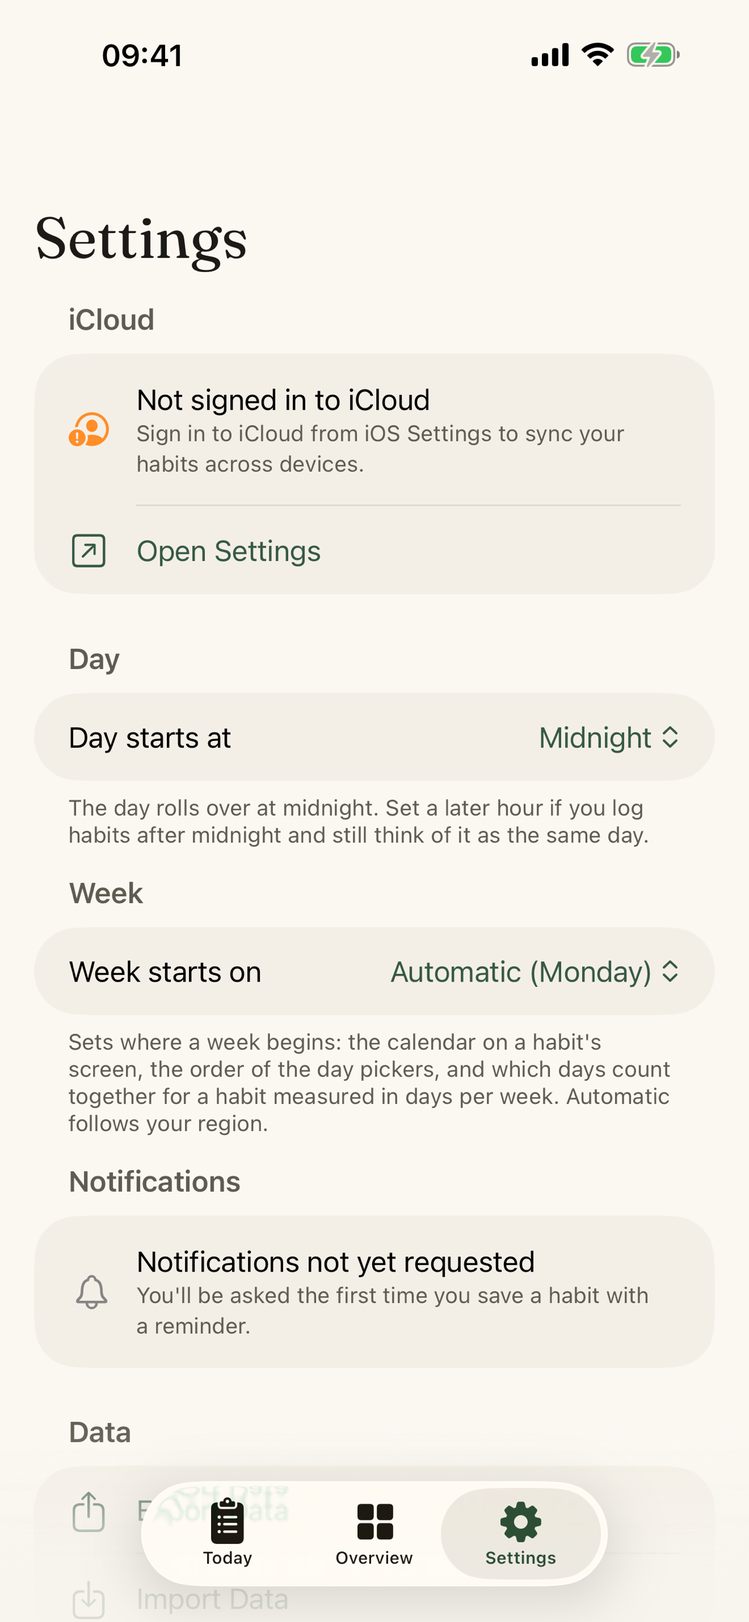
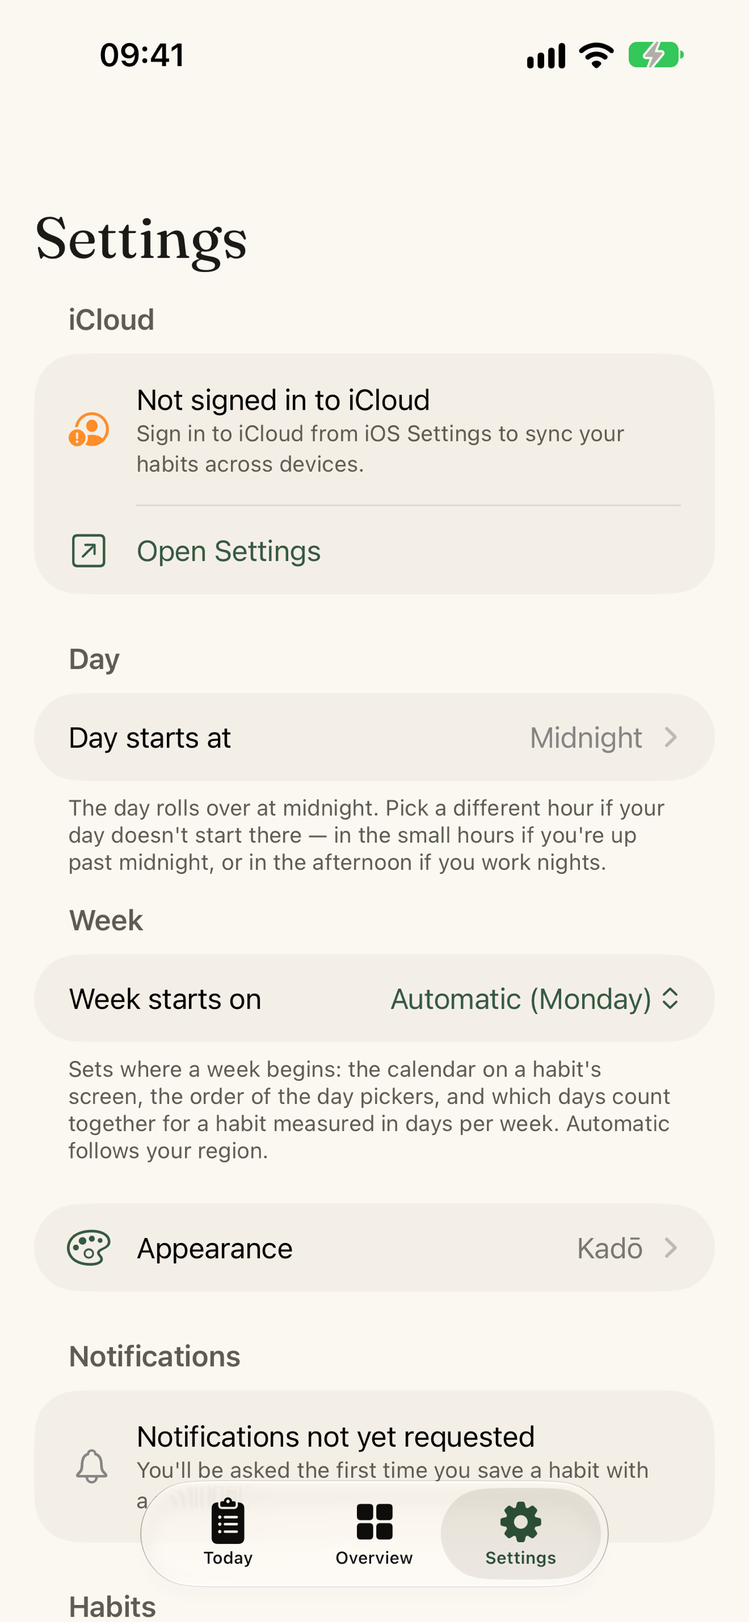
docs: refresh README, roadmap, and site for 1.11
The README, roadmap, and getkado.app still described 1.7. Since then
1.8 → 1.11 shipped: week start, widget legibility and rollover,
confetti and the Daily Progress ring, per-widget habit picks, archived
habits, number-pad entry, any-hour day start, completing from the
Overview, Settings › Appearance, and the Supporter pack.

The site and README also claimed "nothing is locked" next to the Tip
Jar, which stopped being true when the Supporter pack shipped. They
now say what it unlocks (palettes, app icons) and that every tracking
feature stays free.

Site screenshots regenerated with Scripts/site-screenshots.sh, which
picks up the 08-appearance capture from #121.

diff --git a/site/fr/index.html b/site/fr/index.html
@@ -79,6 +79,7 @@
         <figure><img src="/assets/screenshots/fr/02-habit-detail.png" alt="Détail d'une habitude avec calendrier mensuel et popover du score" loading="lazy" decoding="async"></figure>
         <figure><img src="/assets/screenshots/fr/04-overview.png" alt="Matrice d'aperçu multi-habitudes" loading="lazy" decoding="async"></figure>
         <figure><img src="/assets/screenshots/fr/05-new-habit.png" alt="Formulaire de création d'habitude" loading="lazy" decoding="async"></figure>
+        <figure><img src="/assets/screenshots/fr/08-appearance.png" alt="Réglages d'apparence avec les palettes de couleurs des habitudes et les autres icônes d'app" loading="lazy" decoding="async"></figure>
         <figure><img src="/assets/screenshots/fr/07-today-dark.png" alt="Vue Aujourd'hui en mode sombre" loading="lazy" decoding="async"></figure>
       </div>
     </section>
@@ -102,7 +103,7 @@
           </article>
           <article>
             <h3>Natif Apple</h3>
-            <p>SwiftUI, SwiftData, CloudKit, WidgetKit, App Intents. Widgets d'écran d'accueil et d'écran verrouillé. Siri et Raccourcis : complète une habitude, saisis une valeur ou demande ta série, mains libres. Pensé pour ressembler à une app Apple, pas à un portage multiplateforme.</p>
+            <p>SwiftUI, SwiftData, CloudKit, WidgetKit, App Intents. Des widgets d'écran d'accueil qui montrent les habitudes que tu choisis, dans ton ordre, et des widgets d'écran verrouillé, dont un anneau qui se referme à mesure que la journée avance. Siri et Raccourcis : complète une habitude, saisis une valeur ou demande ta série, mains libres. Pensé pour ressembler à une app Apple, pas à un portage multiplateforme.</p>
           </article>
           <article>
             <h3>Horaires flexibles</h3>
@@ -110,7 +111,7 @@
           </article>
           <article>
             <h3>Aperçu d'un coup d'œil</h3>
-            <p>Une matrice habitudes × jours avec des cellules teintées selon le score — le motif Loop / Way of Life avec l'ADN du score de Kadō. Défile dans l'historique, touche une cellule pour ouvrir la journée. Les jours où tu as fait une habitude hors programme s'affichent aussi, au lieu d'être masqués comme des jours de repos.</p>
+            <p>Une matrice habitudes × jours avec des cellules teintées selon le score — le motif Loop / Way of Life avec l'ADN du score de Kadō. Défile dans l'historique, touche un jour pour y marquer une habitude comme faite. Les jours où tu as fait une habitude hors programme s'affichent aussi, au lieu d'être masqués comme des jours de repos.</p>
           </article>
           <article>
             <h3>Des rappels sans bruit</h3>
@@ -122,11 +123,11 @@
           </article>
           <article>
             <h3>Un historique qui se corrige</h3>
-            <p>Oublié de noter hier ? Touche n'importe quel jour du calendrier et corrige-le — même les jours antérieurs à la création de l'habitude. Ajoute une courte note à une complétion, et remonte les mois passés.</p>
+            <p>Oublié de noter hier ? Touche n'importe quel jour du calendrier et corrige-le — même les jours antérieurs à la création de l'habitude. Ajoute une courte note à une complétion, remonte les mois passés, et appuie longuement sur une entrée de l'historique pour la supprimer. Les habitudes archivées t'attendent dans les réglages, historique intact, jusqu'à ce que tu les ressortes.</p>
           </article>
           <article>
             <h3>Réglé sur ta journée</h3>
-            <p>Tu notes après minuit ? Décale le changement de journée jusqu'à 6 h du matin : un seul appui tombe toujours sur la bonne date. Et glisse tes habitudes dans l'ordre où tu les fais vraiment — l'ordre se synchronise entre tes appareils.</p>
+            <p>Tu notes après minuit, ou tu travailles de nuit ? Fais commencer la journée à l'heure de ton choix : un seul appui tombe toujours sur la bonne date. La semaine commence là où ta région la commence. Saisis une valeur au pavé numérique au lieu d'appuyer jusqu'à l'atteindre. Et glisse tes habitudes dans l'ordre où tu les fais vraiment — l'ordre se synchronise entre tes appareils.</p>
           </article>
           <article>
             <h3>Accessible par défaut</h3>
@@ -137,8 +138,8 @@
             <p>Traduit par une personne francophone, pas par une machine. <code>tu</code>, <code>série</code>, <code>habitude</code> — ça sonne juste, pas traduit.</p>
           </article>
           <article>
-            <h3>Gratuite, et ça ne changera pas</h3>
-            <p>Aucun abonnement, aucune publicité, aucune fonctionnalité payante, aucune relance. Une cagnotte de pourboires existe dans les réglages si tu veux soutenir le travail — elle ne débloque rien, puisque rien n'est verrouillé.</p>
+            <h3>Gratuite, et à ton style</h3>
+            <p>Tout ce qui sert à suivre une habitude est gratuit : aucun abonnement, aucune publicité. Choisis les couleurs de tes habitudes dans Réglages › Apparence. Le Pack de soutien, facultatif, est un achat unique partagé avec ta famille : il ajoute quatre palettes et sept autres icônes d'app — et la cagnotte de pourboires, elle, ne débloque rien.</p>
           </article>
         </div>
       </div>
@@ -162,7 +163,7 @@
           <details class="faq-item">
             <summary>Combien coûte Kadō ?</summary>
             <div class="faq-answer">
-              <p>L'app est gratuite et open source sous licence MIT. Aucun abonnement, aucune publicité, aucune fonctionnalité payante. Une cagnotte de pourboires facultative se trouve dans Réglages → Soutenir Kadō si tu souhaites financer le travail ; elle ne débloque rien, et l'app reste entièrement gratuite dans tous les cas.</p>
+              <p>L'app est gratuite et open source sous licence MIT, sans abonnement ni publicité. Tout ce qui sert à suivre une habitude — le score, les widgets, la synchronisation, les rappels, Siri, l'export — est gratuit. Réglages › Soutenir Kadō propose deux façons facultatives de financer le travail : le Pack de soutien, un achat unique qui ajoute quatre palettes de couleurs d'habitudes et sept autres icônes d'app (partagé avec ton groupe Partage familial), et une cagnotte de pourboires qui ne débloque rien.</p>
             </div>
           </details>
 
@@ -229,8 +230,8 @@
       <div class="container">
         <div class="next">
           <div class="section-kicker">Dernière version</div>
-          <h2>La version 1.7 est disponible</h2>
-          <p>Export et import CSV, avec un aller-retour qui conserve tout — notes comprises. Et les habitudes « tous les N jours » comptent désormais à partir du jour où tu les as vraiment faites : t'y prendre en avance n'apparaît plus comme un oubli. Ensuite : les Live Activities pour les habitudes chronométrées, puis les thèmes et Face ID. <a href="https://github.com/scastiel/kado/blob/main/docs/ROADMAP.md">Voir la feuille de route →</a></p>
+          <h2>La version 1.11 est disponible</h2>
+          <p>Fais de Kadō le tien. Réglages › Apparence réunit tout ce qui touche à l'allure de l'app : choisis les couleurs de tes habitudes — Kadō ou Classique, les deux gratuites — et les widgets suivent. Le Pack de soutien, facultatif, ajoute quatre palettes et sept autres icônes d'app, chacune en version claire, sombre et teintée. Elle suit la 1.10, où chaque widget d'écran d'accueil a appris à montrer les habitudes de ton choix, et où les habitudes archivées ont trouvé leur place. Ensuite : les Live Activities pour les habitudes chronométrées, puis Face ID. <a href="https://github.com/scastiel/kado/blob/main/docs/ROADMAP.md">Voir la feuille de route →</a></p>
         </div>
       </div>
     </section>

diff --git a/site/index.html b/site/index.html
@@ -78,6 +78,7 @@
         <figure><img src="/assets/screenshots/en/02-habit-detail.png" alt="Habit detail with monthly calendar and habit score popover" loading="lazy" decoding="async"></figure>
         <figure><img src="/assets/screenshots/en/04-overview.png" alt="Multi-habit overview matrix" loading="lazy" decoding="async"></figure>
         <figure><img src="/assets/screenshots/en/05-new-habit.png" alt="New habit creation form" loading="lazy" decoding="async"></figure>
+        <figure><img src="/assets/screenshots/en/08-appearance.png" alt="Appearance settings with habit colour palettes and alternate app icons" loading="lazy" decoding="async"></figure>
         <figure><img src="/assets/screenshots/en/07-today-dark.png" alt="Today view in dark mode" loading="lazy" decoding="async"></figure>
       </div>
     </section>
@@ -101,7 +102,7 @@
           </article>
           <article>
             <h3>Native to Apple</h3>
-            <p>SwiftUI, SwiftData, CloudKit, WidgetKit, App Intents. Home-screen and lock-screen widgets. Siri and Shortcuts: complete a habit, log a value, or ask for a streak, hands-free. Designed to feel like a first-party iOS app, not a cross-platform port.</p>
+            <p>SwiftUI, SwiftData, CloudKit, WidgetKit, App Intents. Home Screen widgets that show the habits you pick, in your order, and Lock Screen widgets including a ring that closes as the day gets done. Siri and Shortcuts: complete a habit, log a value, or ask for a streak, hands-free. Designed to feel like a first-party iOS app, not a cross-platform port.</p>
           </article>
           <article>
             <h3>Flexible schedules</h3>
@@ -109,7 +110,7 @@
           </article>
           <article>
             <h3>Overview at a glance</h3>
-            <p>A habits × days matrix with score-shaded cells — the Loop / Way of Life pattern with Kadō's score DNA. Scroll back through history, tap any cell to open its day. Days you did something off-schedule show up too, instead of hiding as rest days.</p>
+            <p>A habits × days matrix with score-shaded cells — the Loop / Way of Life pattern with Kadō's score DNA. Scroll back through history, tap any day to mark a habit done right there. Days you did something off-schedule show up too, instead of hiding as rest days.</p>
           </article>
           <article>
             <h3>Reminders without noise</h3>
@@ -121,11 +122,11 @@
           </article>
           <article>
             <h3>History you can fix</h3>
-            <p>Forgot to log yesterday? Tap any day in the calendar and set it right — including days before the habit existed. Add a short note to any completion, and page back through the months.</p>
+            <p>Forgot to log yesterday? Tap any day in the calendar and set it right — including days before the habit existed. Add a short note to any completion, page back through the months, and long-press a history entry to delete it. Archived habits wait in Settings, history intact, until you bring them back.</p>
           </article>
           <article>
             <h3>Shaped around your day</h3>
-            <p>Log after midnight? Push the day rollover as late as 6 AM and one tap still lands on the day you mean. Drag your habits into the order you actually do them — it syncs across your devices.</p>
+            <p>Log after midnight, or work nights? Set the day to roll over at any hour and one tap still lands on the day you mean. Weeks start where your region starts them. Type a value on the number pad instead of tapping up to it. Drag your habits into the order you actually do them — it syncs across your devices.</p>
           </article>
           <article>
             <h3>Accessible by default</h3>
@@ -136,8 +137,8 @@
             <p>Translated by a French speaker, not a machine. <code>tu</code>, <code>série</code>, <code>habitude</code> — it reads right, not translated.</p>
           </article>
           <article>
-            <h3>Free, and staying that way</h3>
-            <p>No subscription, no ads, no paywalled features, no upsell. There is a Tip Jar in Settings if you want to support the work — it unlocks nothing, because there is nothing locked.</p>
+            <h3>Free, and yours to style</h3>
+            <p>Every feature that tracks a habit is free: no subscription, no ads. Pick your habit colours in Settings › Appearance. The optional Supporter pack, a one-time purchase shared with your family, adds four more palettes and seven alternate app icons — and the Tip Jar unlocks nothing at all.</p>
           </article>
         </div>
       </div>
@@ -161,7 +162,7 @@
           <details class="faq-item">
             <summary>How much does Kadō cost?</summary>
             <div class="faq-answer">
-              <p>The app is free and open source under the MIT license. No subscription, no ads, no paywalled features. There's an optional Tip Jar in Settings → Support Kadō if you'd like to fund the work; it unlocks nothing, and the whole app stays free either way.</p>
+              <p>The app is free and open source under the MIT license, with no subscription and no ads. Everything that tracks a habit — the score, widgets, sync, reminders, Siri, export — is free. Settings › Support Kadō offers two optional ways to fund the work: the Supporter pack, a one-time purchase that adds four habit colour palettes and seven alternate app icons (shared with your Family Sharing group), and a Tip Jar that unlocks nothing.</p>
             </div>
           </details>
 
@@ -228,8 +229,8 @@
       <div class="container">
         <div class="next">
           <div class="section-kicker">Latest release</div>
-          <h2>Version 1.7 is out</h2>
-          <p>CSV export and import, with a round-trip that keeps everything — notes included. And habits on an "every N days" schedule now count from the last day you actually did them, so finishing early no longer shows up as a miss. Next up: Live Activities for timer habits, then themes and Face ID. <a href="https://github.com/scastiel/kado/blob/main/docs/ROADMAP.md">See the roadmap →</a></p>
+          <h2>Version 1.11 is out</h2>
+          <p>Make Kadō yours. Settings › Appearance is a new home for how the app looks: pick the colours your habits wear — Kadō or Classic, both free — and the widgets follow along. The optional Supporter pack adds four more palettes and seven alternate app icons, each in light, dark and tinted. It comes after 1.10, which let each Home Screen widget show the habits you choose and gave archived habits a home. Next up: Live Activities for timer habits, then Face ID. <a href="https://github.com/scastiel/kado/blob/main/docs/ROADMAP.md">See the roadmap →</a></p>
         </div>
       </div>
     </section>

diff --git a/README.md b/README.md
@@ -16,7 +16,7 @@
 
   <p>
     <a href="https://github.com/scastiel/kado/blob/main/LICENSE"><img alt="MIT license" src="https://img.shields.io/badge/license-MIT-blue.svg" /></a>
-    <a href="https://apps.apple.com/app/id6762570244"><img alt="App Store 1.7" src="https://img.shields.io/badge/App%20Store-1.7-black.svg" /></a>
+    <a href="https://apps.apple.com/app/id6762570244"><img alt="App Store 1.11" src="https://img.shields.io/badge/App%20Store-1.11-black.svg" /></a>
     <a href="https://developer.apple.com/swift/"><img alt="Swift 5.10" src="https://img.shields.io/badge/Swift-5.10-orange.svg" /></a>
     <img alt="Platforms" src="https://img.shields.io/badge/platforms-iOS%2018%20%7C%20iPadOS%2018-lightgrey.svg" />
   </p>
@@ -51,35 +51,50 @@ algorithm to native iOS — MIT, free, no account, no subscription.
 ## Screenshots
 
 <p float="left">
-  <img src="docs/screenshots/iphone-67-appstore/en/01-today.png" width="19%" alt="Today view" />
-  <img src="docs/screenshots/iphone-67-appstore/en/02-habit-detail.png" width="19%" alt="Habit detail with score popover" />
-  <img src="docs/screenshots/iphone-67-appstore/en/04-overview.png" width="19%" alt="Multi-habit overview" />
-  <img src="docs/screenshots/iphone-67-appstore/en/05-new-habit.png" width="19%" alt="New habit form" />
-  <img src="docs/screenshots/iphone-67-appstore/en/07-today-dark.png" width="19%" alt="Today view in dark mode" />
+  <img src="docs/screenshots/iphone-67-appstore/en/01-today.png" width="16%" alt="Today view" />
+  <img src="docs/screenshots/iphone-67-appstore/en/02-habit-detail.png" width="16%" alt="Habit detail with score popover" />
+  <img src="docs/screenshots/iphone-67-appstore/en/04-overview.png" width="16%" alt="Multi-habit overview" />
+  <img src="docs/screenshots/iphone-67-appstore/en/05-new-habit.png" width="16%" alt="New habit form" />
+  <img src="docs/screenshots/iphone-67-appstore/en/08-appearance.png" width="16%" alt="Appearance settings with habit colour palettes and app icons" />
+  <img src="docs/screenshots/iphone-67-appstore/en/07-today-dark.png" width="16%" alt="Today view in dark mode" />
 </p>
 
 ## Features
 
 - **Today view** — habits due today, tap to complete, long-press for
   partial / note / timer, drag to reorder (the order syncs via
-  iCloud).
+  iCloud). Counter and timer rows show the day's total between − and
+  +, with a haptic tick on every tap; "Log specific value…" opens a
+  number pad with today's value selected. Finish the day and Kadō
+  throws confetti (just a caption under Reduce Motion).
 - **Habit detail** — monthly calendar with month-by-month navigation,
   current streak, best streak, habit score with an info popover
   explaining the math. Edit any past day straight from the calendar,
-  including days before the habit existed.
+  including days before the habit existed (the calendar says when
+  that makes it the new start date). Long-press a History entry to
+  delete it.
 - **Per-day notes** — a short note on any day's completion, carried
   through export and import.
 - **Overview** — habits × days matrix with score-shaded cells, the
-  Loop / Way of Life pattern with Kadō's score DNA. Completions logged
+  Loop / Way of Life pattern with Kadō's score DNA. Tap a day to mark
+  a habit completed right from the popover. Completions logged
   off-schedule show up too, instead of hiding as rest days.
 - **Flexible schedules** — daily, N days per week, specific weekdays,
   every N days (the cycle re-anchors on each completion, so finishing
   early never costs you a day). Binary, counter, or timer habit types.
-- **Day starts at** — push the day rollover as late as 6 AM, so
-  late-night logging still lands on the day you mean. Changing it
-  never re-buckets history.
-- **Widgets** — Home Screen (small / medium / large) and Lock Screen
-  (rectangular / circular / inline). Quick-complete via `AppIntent`.
+- **Day starts at** — move the day rollover to any hour, so
+  late-night logging (or a night-shift schedule) lands on the day you
+  mean. Changing it never re-buckets history.
+- **Week starts where you do** — calendars and week grids follow your
+  region's first day of the week, or the one you pick in Settings.
+- **Archived habits** — Settings lists them; unarchive one with its
+  history intact, or delete it for good.
+- **Widgets** — Home Screen (small / medium / large), each showing
+  the habits you pick in Edit Widget (up to 5 or 8, in your order), and
+  Lock Screen (rectangular / circular / inline, plus a Daily Progress
+  ring). Quick-complete via `AppIntent`; widgets roll over to the new
+  day on their own and stay legible under the Clear and Tinted Home
+  Screen appearances.
 - **Siri and Shortcuts** — complete a habit, log a value, or ask for a
   score and streak, hands-free. Also available as Home Screen actions
   and Shortcuts automations.
@@ -91,15 +106,21 @@ algorithm to native iOS — MIT, free, no account, no subscription.
 - **JSON and CSV export / import** — lossless backup of your data, in
   both formats, round-trip tested. Open a CSV backup in Numbers or
   Excel, edit it, bring it back in.
-- **Tip Jar** — entirely optional, unlocks nothing. The whole app
-  stays free, with no ads, no subscription, and no tracking.
+- **Appearance** — choose the colours your habits wear: Kadō or
+  Classic for free, and four more palettes (Muted, Vivid, Autumn,
+  Monochrome sage) plus seven alternate app icons with the Supporter
+  pack. Widgets follow the palette.
+- **Supporter pack and Tip Jar** — a one-time, Family Sharing-enabled
+  purchase that unlocks the extra palettes and icons, and a Tip Jar
+  that unlocks nothing. Both are optional: every feature that tracks a
+  habit stays free, with no ads, no subscription, and no tracking.
 - **Accessibility** — Dynamic Type up to XXXL, VoiceOver labels on
   every surface, full Dark Mode.
 - **Localization** — English and native French (not machine-translated).
 
 ## Status
 
-**Shipping on the App Store — [current version 1.7](https://apps.apple.com/app/id6762570244).**
+**Shipping on the App Store — [current version 1.11](https://apps.apple.com/app/id6762570244).**
 
 | Version | Highlights |
 |---|---|
@@ -111,6 +132,10 @@ algorithm to native iOS — MIT, free, no account, no subscription.
 | 1.5 | Tip Jar (StoreKit 2), optional and unlocking nothing |
 | 1.6 | "Day starts at" hour; days-per-week scoring fix; off-schedule completions in Overview |
 | 1.7 | CSV export / import round-trip; "every N days" re-anchors on completion |
+| 1.8 | Week starts on your region's first day; widgets legible under Clear and Tinted |
+| 1.9 | Confetti for a finished day; Daily Progress Lock Screen ring; redrawn habit colours; widgets roll over on their own |
+| 1.10 | Pick each widget's habits; archived habits list; number-pad value entry; "Day starts at" any hour; complete from the Overview |
+| 1.11 | Settings › Appearance with habit colour palettes; Supporter pack with extra palettes and alternate app icons; Siri finds "Kado" |
 
 **Not planned.** A native Apple Watch app and HealthKit
 auto-completion were scoped for v0.3 and have been **descoped** — no
@@ -133,7 +158,7 @@ files). Full roadmap in [`docs/ROADMAP.md`](./docs/ROADMAP.md).
   (the widget process never opens SwiftData — see `CLAUDE.md` for
   why).
 - **App Intents** for widget quick-complete, Siri, and Shortcuts.
-- **StoreKit 2** for the Tip Jar.
+- **StoreKit 2** for the Tip Jar and the Supporter pack.
 - **Swift Testing** for unit tests, XCTest for UI tests and for the
   App Store screenshot run.
 - **Zero third-party dependencies.**
@@ -237,8 +262,8 @@ Issues and pull requests are welcome. A few notes:
 - One PR per feature or logical fix. Commit message format follows
   a lightweight Conventional Commits convention —
   `feat(scope): description`, `fix(scope): …`, etc.
-- No third-party dependencies. The Tip Jar is built directly on
-  StoreKit 2, and the App Store Connect client in `Scripts/` signs
+- No third-party dependencies. The Tip Jar and Supporter pack are
+  built directly on StoreKit 2, and the App Store Connect client in `Scripts/` signs
   its own JWT with `openssl`, precisely so that stays true.
 
 ## Privacy

diff --git a/docs/ROADMAP.md b/docs/ROADMAP.md
@@ -9,10 +9,12 @@ the App Store release it went out in.
 
 ---
 
-## Current status (2026-09-05)
+## Current status (2026-10-01)
 
-- **Shipping on the App Store: version 1.7** (build 14). Seven
-  updates since the public launch, all free, no subscription.
+- **Shipping on the App Store: version 1.11** (build 21). Eleven
+  updates since the public launch, all free, no subscription. 1.11
+  added the first paid item — a one-time Supporter pack of extra
+  habit palettes and app icons; every tracking feature stays free.
 - **v0.1 MVP**, **v0.2 "Visible iOS-native"**, and **v1.0 public
   launch**: shipped.
 - **v0.3 "iOS depth"**: partially shipped, partially descoped. App
@@ -22,8 +24,8 @@ the App Store release it went out in.
 - **French localization** (originally v1.0) shipped early, in the
   v0.2 stream.
 - **Next**: Live Activities + Dynamic Island for timer habits, then
-  the remaining v1.x polish items (themes, biometrics, categories,
-  backup files).
+  the remaining v1.x polish items (biometrics, categories, backup
+  files).
 
 ---
 
@@ -39,6 +41,10 @@ the App Store release it went out in.
 | **1.5** | Support Kadō | Tip Jar (StoreKit 2, no third-party SDK). Optional, unlocks nothing |
 | **1.6** | Late nights and fairer scores | "Day starts at" rollover hour (up to 6 AM); days-per-week scoring fix; off-schedule completions now visible in Overview |
 | **1.7** | Portable backups | CSV export and import with a lossless round-trip; "every N days" re-anchors on each completion instead of a fixed grid |
+| **1.8** | Your week, readable widgets | Week starts on the region's (or the user's chosen) first day; Home Screen widgets legible under Clear and Tinted |
+| **1.9** | A finished day | Confetti when the day is done; Daily Progress Lock Screen ring; habit hues redrawn in OKLCH; counter/timer rows show the day's total; widgets roll over without the app; History rows deletable from a long-press menu |
+| **1.10** | Widgets your way | Each Home Screen widget shows the habits picked in Edit Widget; widgets on iOS 18–26.3 at last (#97); archived habits list with unarchive/delete; number-pad value entry; "Day starts at" any hour; complete a habit from the Overview popover |
+| **1.11** | Make it yours | Settings › Appearance with Kadō and Classic habit palettes; Supporter pack (one-time, Family Sharing) with four more palettes and seven alternate app icons; Siri finds the app as "Kado" |
 
 Per-release copy (EN + FR) lives in `docs/app-store-connect.md`; the
 copy that actually ships is in `docs/app-store/metadata/`.
@@ -90,7 +96,9 @@ flow genuinely can't serve.
 - [ ] Timer background persistence (respecting iOS limitations)
 
 ### Remaining v1.x polish
-- [ ] Core themes: light, dark, sepia, high contrast
+- [x] Habit colour palettes (Kadō, Classic, plus four in the
+      Supporter pack) and alternate app icons — shipped in 1.11
+- [ ] Core app themes: sepia, high contrast
 - [ ] Optional biometrics (Face ID / Touch ID) to open the app
 - [ ] Categories / tags for organization
 - [ ] Manual backup as `.kado` file (zipped JSON), and restore
@@ -309,6 +317,10 @@ noted inline.
 ### Monetization
 - [x] Tip Jar (StoreKit 2 IAP, no RevenueCat) — shipped in 1.5, with
       an earned-it nudge at the bottom of Today
+- [x] Supporter pack — shipped in 1.11: a one-time, Family
+      Sharing-enabled purchase that unlocks cosmetic extras only
+      (palettes, app icons). No subscription, nothing functional
+      behind it
 - [x] No Pro tier at launch — still the position
 
 ### Communication
